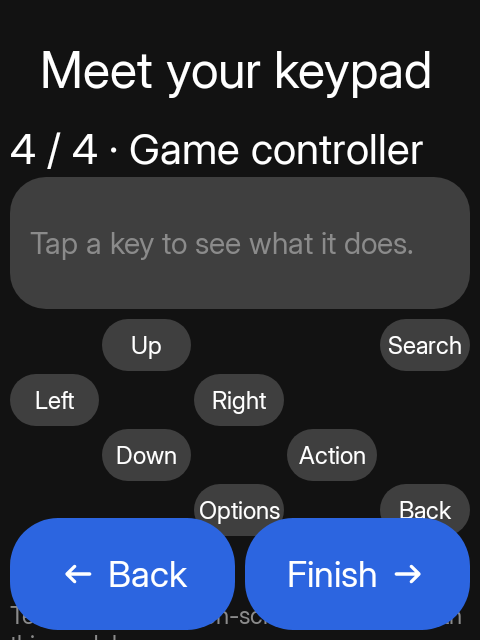
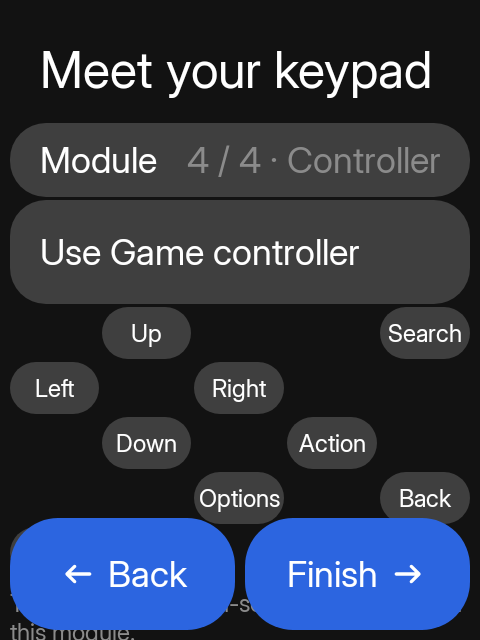
feat(onboarding): use the interactive keypad guide
The guide no longer shows an empty placeholder card; the detail card appears only after a key is tapped. Onboarding now uses the same module row and guide as Settings, with a compact Use action and no separate skip button or closing copy.

diff --git a/sidekit-sdk/src/main/java/hrln/interactive/sidekit/sdk/settings/KeypadGuide.kt b/sidekit-sdk/src/main/java/hrln/interactive/sidekit/sdk/settings/KeypadGuide.kt
@@ -1,5 +1,8 @@
 package hrln.interactive.sidekit.sdk.settings
 
+import androidx.compose.animation.AnimatedVisibility
+import androidx.compose.animation.expandVertically
+import androidx.compose.animation.shrinkVertically
 import androidx.compose.foundation.layout.Arrangement
 import androidx.compose.foundation.layout.Column
 import androidx.compose.foundation.layout.Row
@@ -144,7 +147,13 @@ fun KeypadGuide(module: KeypadModule) {
     var selected by remember(module) { mutableStateOf<KeypadGuideKey?>(null) }
     val spacing = SidekitTheme.spacing
     Column(verticalArrangement = Arrangement.spacedBy(spacing.pageGap)) {
-        KeypadGuideDetail(selected)
+        AnimatedVisibility(
+            visible = selected != null,
+            enter = expandVertically(),
+            exit = shrinkVertically()
+        ) {
+            selected?.let { KeypadGuideDetail(it) }
+        }
         Column(verticalArrangement = Arrangement.spacedBy(spacing.itemOuterGap)) {
             rows.forEach { row ->
                 val keyHeight = if (row.size > 3) 52.dp else 64.dp
@@ -186,32 +195,18 @@ fun KeypadGuide(module: KeypadModule) {
 }
 
 @Composable
-private fun KeypadGuideDetail(key: KeypadGuideKey?) {
+private fun KeypadGuideDetail(key: KeypadGuideKey) {
     SidekitTile(
-        Modifier.fillMaxWidth().height(132.dp),
+        Modifier.fillMaxWidth().height(112.dp),
         contentAlignment = Alignment.CenterStart
     ) {
-        if (key == null) {
-            Column(
-                Modifier.fillMaxSize().padding(horizontal = 20.dp),
-                verticalArrangement = Arrangement.Center
-            ) {
-                SidekitText(
-                    "Tap a key to see what it does.",
-                    style = SidekitTheme.typography.label,
-                    color = SidekitTheme.colors.surfaceA6,
-                    maxLines = 2
-                )
-            }
-        } else {
-            Column(
-                Modifier.fillMaxSize().padding(horizontal = 20.dp),
-                verticalArrangement = Arrangement.Center
-            ) {
-                SidekitText(key.label, style = SidekitTheme.typography.label, maxLines = 1)
-                GuideAction("Tap", key.tap)
-                GuideAction("Hold", key.hold ?: "No long press", muted = key.hold == null)
-            }
+        Column(
+            Modifier.fillMaxSize().padding(horizontal = 20.dp),
+            verticalArrangement = Arrangement.Center
+        ) {
+            SidekitText(key.label, style = SidekitTheme.typography.label, maxLines = 1)
+            GuideAction("Tap", key.tap)
+            GuideAction("Hold", key.hold ?: "No long press", muted = key.hold == null)
         }
     }
 }

diff --git a/app/src/main/java/hrln/interactive/sidekit/onboarding/OnboardingScreen.kt b/app/src/main/java/hrln/interactive/sidekit/onboarding/OnboardingScreen.kt
@@ -18,6 +18,7 @@ import androidx.compose.ui.unit.dp
 import androidx.compose.ui.unit.sp
 import androidx.lifecycle.compose.LifecycleResumeEffect
 import androidx.lifecycle.compose.collectAsStateWithLifecycle
+import hrln.interactive.sidekit.apps.everyday.CompactRowHeight
 import hrln.interactive.sidekit.apps.settings.*
 import hrln.interactive.sidekit.apps.sideport.registry.PortedApps
 import hrln.interactive.sidekit.design.action.SideAction
@@ -166,13 +167,18 @@ internal fun OnboardingScreen(onFinish: () -> Unit, replay: Boolean = false) {
                     }
 
                     6 -> {
-                        item { SidekitText("${tourIndex + 1} / ${modules.size} · ${modules[tourIndex].label}", style = SidekitTheme.typography.headline) }
+                        item {
+                            SidekitItem(
+                                "Module",
+                                Modifier.height(CompactRowHeight).listFade(listState, 0),
+                                secondary = "${tourIndex + 1} / ${modules.size} · ${tourLabel(modules[tourIndex])}",
+                                secondaryToEnd = true,
+                                onClick = { tourIndex = (tourIndex + 1) % modules.size }
+                            )
+                        }
+                        item { SidekitLineButton("Use ${modules[tourIndex].label}", { keypad?.useModule(modules[tourIndex]) }, variant = LineButtonVariant.Secondary) }
                         item { KeypadGuide(modules[tourIndex]) }
                         item { SidekitText("${keypad?.module?.label ?: "T9"} is your current selection. Press a letter, digit or media key to detect yours.", style = SidekitTheme.typography.label, maxLines = Int.MAX_VALUE) }
-
-                        item { SidekitLineButton("Skip / next keypad", { tourIndex = (tourIndex + 1) % modules.size }, variant = LineButtonVariant.Secondary) }
-                        item { SidekitLineButton("Use ${modules[tourIndex].label}", { keypad?.useModule(modules[tourIndex]) }) }
-                        item { Copy("Ready when you are", "Tap Finish to open your home screen. Revisit this tour from Settings → Setup & keypad tour.") }
                     }
                 }
                 message?.let { item { Copy("Access update", it) } }
@@ -211,3 +217,9 @@ private fun LayoutChoice(list: Boolean, selected: Boolean, choose: () -> Unit) {
 }
 
 internal fun orderedModules(current: KeypadModule) = listOf(current) + KeypadModule.entries.filter { it != current }
+
+private fun tourLabel(module: KeypadModule) = when (module) {
+    KeypadModule.Qwerty -> "QWERTY"
+    KeypadModule.GamePad -> "Controller"
+    else -> module.label
+}

diff --git a/app/src/test/java/hrln/interactive/sidekit/onboarding/OnboardingTest.kt b/app/src/test/java/hrln/interactive/sidekit/onboarding/OnboardingTest.kt
@@ -84,22 +84,19 @@ class OnboardingTest {
 
     @Test fun `current keypad is first and other demos do not change it`() {
         launch(6, KeypadModule.Qwerty)
-        compose.onNodeWithText("1 / 4 · Mini QWERTY").assertIsDisplayed()
-        compose.onNodeWithText("Tap a key to see what it does.").performScrollTo().assertExists()
+        compose.onNodeWithText("1 / 4 · QWERTY").assertIsDisplayed()
+        compose.onNodeWithText("Tap a key to see what it does.").assertDoesNotExist()
         compose.onNodeWithText("QW").assertExists()
         shot("07-qwerty")
-        compose.onNode(hasScrollToIndexAction()).performScrollToNode(hasText("Skip / next keypad"))
-        compose.onNodeWithText("Skip / next keypad").performClick()
+        compose.onNodeWithText("Module").performClick()
         compose.onNodeWithText("2 / 4 · T9").assertExists()
-        compose.onNode(hasScrollToIndexAction()).performScrollToNode(hasText("Skip / next keypad"))
-        compose.onNodeWithText("Skip / next keypad").performClick()
+        compose.onNodeWithText("Module").performClick()
         compose.onNodeWithText("3 / 4 · Sundial").assertExists()
         compose.onNodeWithText("Meet your keypad").assertIsDisplayed()
         compose.onNodeWithText("3 / 4 · Sundial").performScrollTo()
         shot("08-sundial")
-        compose.onNode(hasScrollToIndexAction()).performScrollToNode(hasText("Skip / next keypad"))
-        compose.onNodeWithText("Skip / next keypad").performClick()
-        compose.onNodeWithText("4 / 4 · Game controller").performScrollTo()
+        compose.onNodeWithText("Module").performClick()
+        compose.onNodeWithText("4 / 4 · Controller").performScrollTo()
         shot("09-controller")
         compose.onNode(hasScrollToIndexAction()).performScrollToNode(hasText("Mini QWERTY is your current selection.", substring = true))
         compose.onNodeWithText("Mini QWERTY is your current selection.", substring = true).assertExists()

diff --git a/app/src/test/java/hrln/interactive/sidekit/apps/settings/KeypadMappingUiTest.kt b/app/src/test/java/hrln/interactive/sidekit/apps/settings/KeypadMappingUiTest.kt
@@ -228,12 +228,13 @@ class KeypadMappingUiTest {
     @Test fun keyGuideShowsOneActionAtATime() {
         show(KeypadModule.T9) { KeypadGuideScreen {} }
         compose.onNodeWithText("Key guide").assertIsDisplayed()
-        compose.onNodeWithText("Tap a key to see what it does.").assertIsDisplayed()
+        compose.onNodeWithText("Tap a key to see what it does.").assertDoesNotExist()
+        compose.onRoot().captureRoboImage("screenshots/keyboard_guide_page.png")
         compose.onNodeWithText("OK").performClick()
         compose.onNodeWithText("Activate the focused control or confirm a suggestion.").assertIsDisplayed()
         compose.onNodeWithText("No long press").assertIsDisplayed()
         compose.onNodeWithText("Back").performClick()
         compose.onNodeWithText("Open the dialer.").assertIsDisplayed()
-        compose.onRoot().captureRoboImage("screenshots/keyboard_guide_page.png")
+        compose.onRoot().captureRoboImage("screenshots/keyboard_guide_selected.png")
     }
 }

diff --git a/docs/onboarding.md b/docs/onboarding.md
@@ -8,7 +8,7 @@ First launch opens a seven-step setup using Sidekit's existing canvas, theme, ca
 4. Hide apps you do not want on home. The same controls are in Settings → Hide apps. Built-in and Sideport apps can be hidden or restored, including with Show all apps. Hidden apps are excluded from grid, list, search and dock; they are not uninstalled. Settings remains in Options.
 5. Review feature-specific permissions and special access. Nothing is requested automatically. Declining access never blocks completion; the affected feature still needs its permission. Returning from Android settings refreshes status. A repeated runtime-permission request opens App settings so permanently denied access can be changed.
 6. Choose letters or numbers as the default input mode.
-7. Explore tappable, schematic keypad diagrams. The remembered/detected module comes first. Skip through all four without changing the active module, or explicitly select one with “Use”. Finish opens home.
+7. Explore tappable, schematic keypad diagrams. The remembered/detected module comes first. Tap the Module row to cycle through all four without changing the active module, or explicitly select one with “Use”. Finish opens home.
 
 The keypad hardware exposes no distinct module identifier. Existing detection recognises distinctive key events, persists the last module and initially defaults to T9. Setup does not claim to detect a module before such a key is pressed. Controller actions depend on the app/game; the tour does not promise universal game mappings. For keypads Sidekit does not recognise, or to move keys, see [Keypad mapping](keypad-mapping.md).
 
